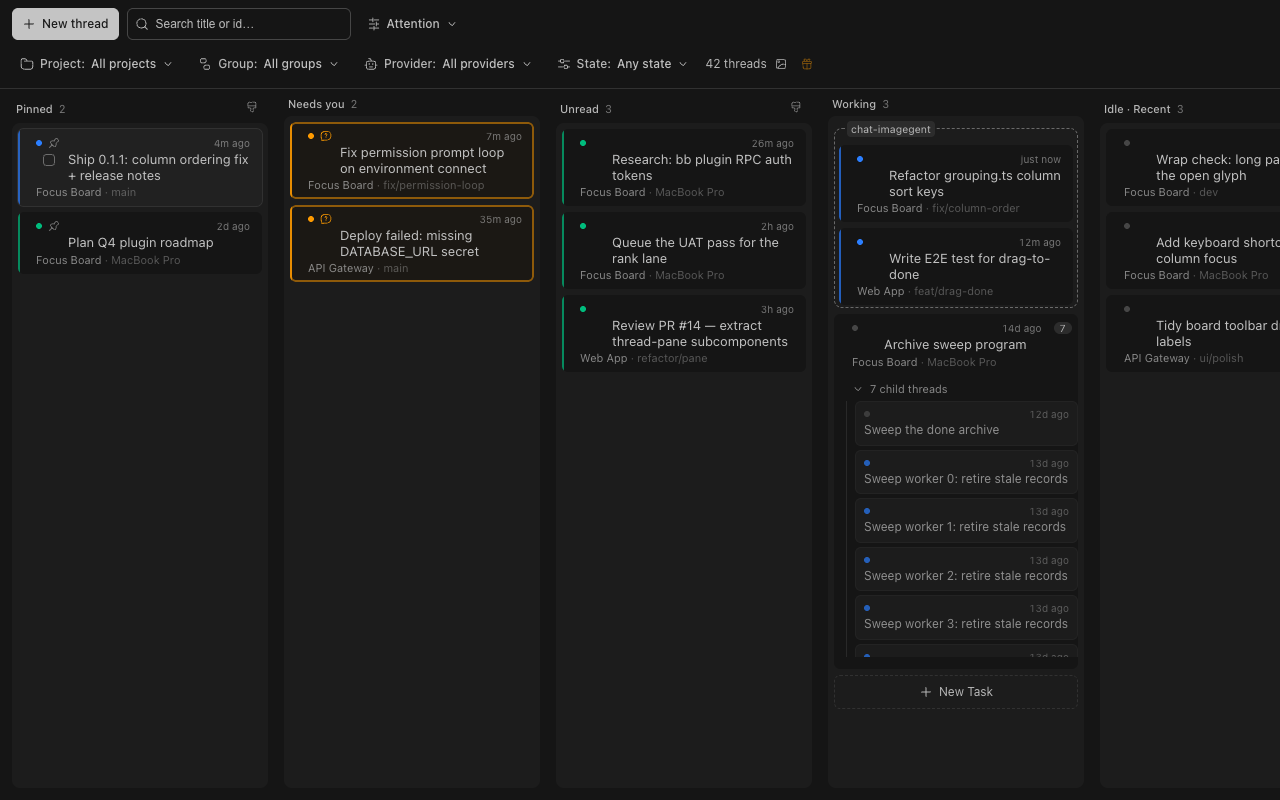
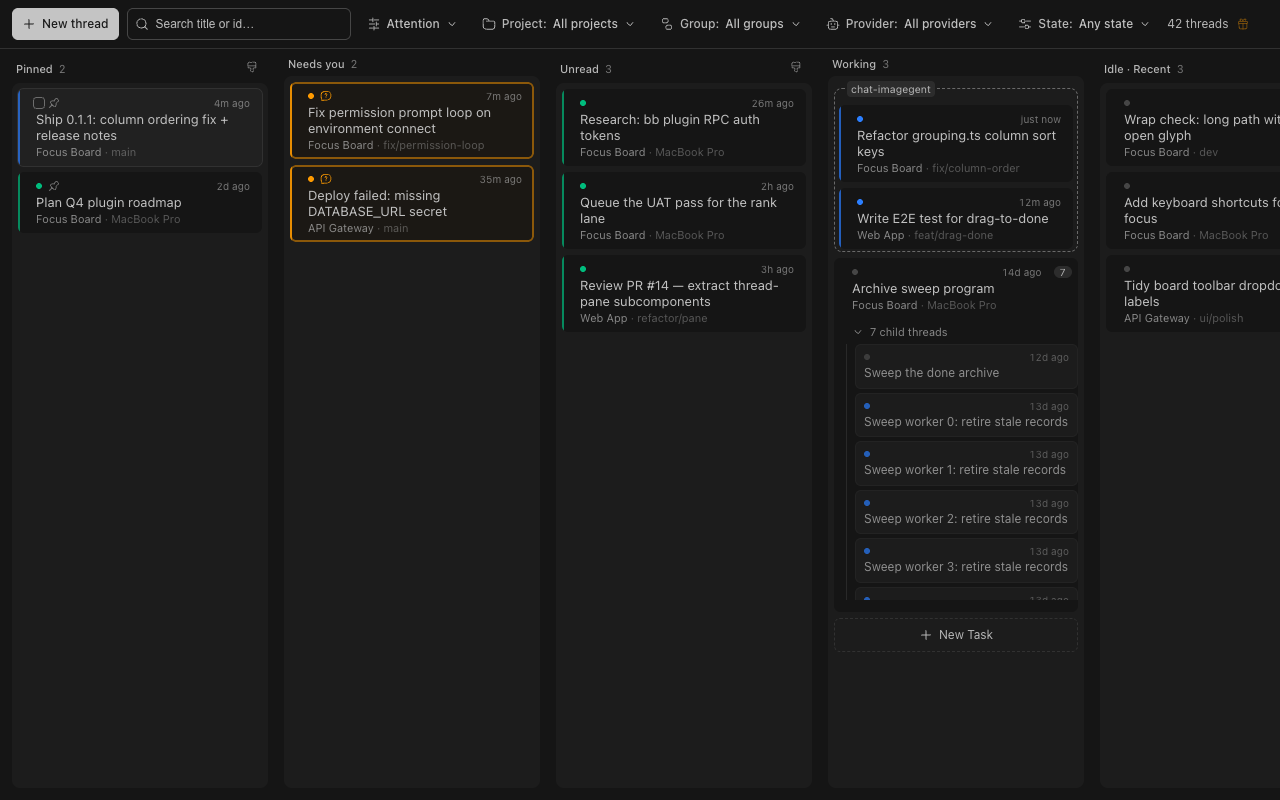
The done checkbox swaps into the state dot's slot on hover

diff --git a/tests/thread-card-done-checkbox.test.tsx b/tests/thread-card-done-checkbox.test.tsx
@@ -1,12 +1,12 @@
 // @vitest-environment jsdom
-// The title-row Mark Done checkbox: a checkbox sits LEFT OF THE THREAD TITLE
-// in a reserved gutter (the title never reflows on hover — only arming
-// pushes, adding the inline label so the title wraps in the narrower
-// space). The first click ARMS, the second click fires the write. Done
-// cards mirror it: a CHECKED box that arms "Mark Not Done". This file pins
-// the behavior the operator actually sees: placement (title row, not the
-// corner), arm, confirm, disarm-on-leave, the done mirror, and the gates
-// (unwired surfaces and sweep-selecting mode render nothing).
+// The status-dot swap: on hover, the card's state dot yields its exact
+// slot to the done checkbox — empty on not-done cards, checked on done —
+// so the reveal moves NOTHING on the card. The first click ARMS (the
+// label joins the header row inline), the second click fires the write,
+// and hovering away disarms. This file pins the behavior the operator
+// actually sees: the dot-to-checkbox swap, arm, confirm, disarm, the done
+// mirror, and the gates (unwired surfaces and sweep-selecting keep the
+// plain dot).
 import { afterEach, describe, expect, it, vi } from "vitest";
 import { cleanup, fireEvent, render } from "@testing-library/react";
 import { ThreadCard } from "../components/thread-card";
@@ -22,7 +22,7 @@ function card(props: {
   return render(
     <ThreadCard
       thread={thread({ id: "thr_check", displayTitle: "Wired thread", updatedAt: 1 })}
-      stateDot={null}
+      stateDot={<span data-state-dot="" />}
       isActive={false}
       isDone={props.isDone ?? false}
       projectName="Proj"
@@ -40,35 +40,49 @@ function checkbox(): HTMLElement {
   return node;
 }
 
-describe("the title-row Mark Done checkbox", () => {
-  it("sits in the title row, left of the title, reserving the gutter", () => {
+describe("the status-dot done checkbox", () => {
+  it("occupies the state dot's slot: the dot is wrapped to yield on hover", () => {
     card({ onMarkDone: () => {} });
     const node = checkbox();
-    // Structural placement contract: the checkbox's flex sibling is the
-    // title paragraph, so the box reads left of the title and the armed
-    // label grows in-flow (pushing the title right), never floating over
-    // the corner.
-    const row = node.parentElement;
-    if (!(row instanceof HTMLElement)) throw new Error("missing title row");
-    expect(row.className).toContain("flex");
-    const title = row.querySelector("p");
-    if (!(title instanceof HTMLElement)) throw new Error("missing title");
-    expect(title.className).toContain("flex-1");
-    expect(node.nextElementSibling).toBe(title);
-    // Idle: the empty checkbox glyph, unarmed, no label text.
+    // The checkbox is centered over the dot's fixed slot, not a sibling of
+    // the title and not a corner overlay.
+    const slot = node.parentElement;
+    if (!(slot instanceof HTMLElement)) throw new Error("missing dot slot");
+    expect(slot.className).toContain("relative");
+    const dotWrap = slot.querySelector("[data-state-dot]")?.parentElement;
+    if (!(dotWrap instanceof HTMLElement)) throw new Error("missing dot wrapper");
+    // The dot fades out on hover (the swap).
+    expect(dotWrap.className).toContain("group-hover:opacity-0");
+    // Idle: the empty checkbox glyph, unarmed, no label in the header row.
     expect(node.hasAttribute("data-done-armed")).toBe(false);
     expect(node.querySelector("[data-icon]")?.getAttribute("data-icon")).toBe("Checkbox");
-    expect(node.textContent).not.toContain("Mark Done");
+    expect(document.querySelector("[data-done-armed-tag]")).toBeNull();
   });
 
-  it("arms on the first click without firing the write, label pushing the title", () => {
+  it("keeps the plain dot when the surface is unwired or sweep-selecting", () => {
+    card({});
+    expect(document.querySelector("[data-done-checkbox]")).toBeNull();
+    const dot = document.querySelector('[data-thread-card="thr_check"] [data-state-dot]');
+    if (!(dot instanceof HTMLElement)) throw new Error("missing state dot");
+    // The dot renders bare (no yielding wrapper) when there is no checkbox.
+    expect(dot.parentElement?.className).not.toContain("group-hover:opacity-0");
+    card({ onMarkDone: () => {}, isSweepSelecting: true });
+    expect(document.querySelector("[data-done-checkbox]")).toBeNull();
+  });
+
+  it("arms on the first click: the label joins the header row, no write", () => {
     const onMarkDone = vi.fn();
     card({ onMarkDone });
     const node = checkbox();
     fireEvent.click(node);
     expect(node.hasAttribute("data-done-armed")).toBe(true);
-    expect(node.textContent).toContain("Mark Done");
     expect(node.querySelector("[data-icon]")?.getAttribute("data-icon")).toBe("CheckboxChecked");
+    // The armed label is a header-row sibling AFTER the dot slot (inline,
+    // not inside the button, not over the title).
+    const tag = document.querySelector('[data-thread-card="thr_check"] [data-done-armed-tag]');
+    if (!(tag instanceof HTMLElement)) throw new Error("missing armed tag");
+    expect(tag.textContent).toBe("Mark Done");
+    expect(node.parentElement?.nextElementSibling).toBe(tag);
     expect(onMarkDone).not.toHaveBeenCalled();
   });
 
@@ -80,6 +94,7 @@ describe("the title-row Mark Done checkbox", () => {
     fireEvent.click(node);
     expect(onMarkDone).toHaveBeenCalledTimes(1);
     expect(node.hasAttribute("data-done-armed")).toBe(false);
+    expect(document.querySelector("[data-done-armed-tag]")).toBeNull();
   });
 
   it("disarms when the pointer leaves the card, without firing the write", () => {
@@ -101,25 +116,16 @@ describe("the title-row Mark Done checkbox", () => {
     const node = checkbox();
     // Idle done card: the CHECKED glyph, no label.
     expect(node.querySelector("[data-icon]")?.getAttribute("data-icon")).toBe("CheckboxChecked");
-    expect(node.textContent).not.toContain("Mark Not Done");
-    // Armed: the "Mark Not Done" label joins in-flow.
+    expect(document.querySelector("[data-done-armed-tag]")).toBeNull();
+    // Armed: the "Mark Not Done" label joins the header row.
     fireEvent.click(node);
-    expect(node.hasAttribute("data-done-armed")).toBe(true);
-    expect(node.textContent).toContain("Mark Not Done");
+    const tag = document.querySelector('[data-thread-card="thr_check"] [data-done-armed-tag]');
+    if (!(tag instanceof HTMLElement)) throw new Error("missing armed tag");
+    expect(tag.textContent).toBe("Mark Not Done");
     expect(onMarkDone).not.toHaveBeenCalled();
-    // Confirm: the write fires (the handler flips done off its own state).
+    // Confirm: the write fires once (the handler flips done off its own state).
     fireEvent.click(node);
     expect(onMarkDone).toHaveBeenCalledTimes(1);
     expect(node.hasAttribute("data-done-armed")).toBe(false);
-  });
-
-  it("does not render when the surface gives no handler", () => {
-    card({});
-    expect(document.querySelector("[data-done-checkbox]")).toBeNull();
-  });
-
-  it("does not render in sweep-selecting mode (the click there curates the sweep)", () => {
-    card({ onMarkDone: () => {}, isSweepSelecting: true });
-    expect(document.querySelector("[data-done-checkbox]")).toBeNull();
   });
 });

diff --git a/components/thread-card.tsx b/components/thread-card.tsx
@@ -616,61 +616,65 @@ export function ThreadCard({
   const fades = isDone || dimmed || snoozed;
   const dimsByScrim = wallpaperActive && fades && !isSweepHighlighted;
 
-  // The two-click Mark Done checkbox, sitting LEFT OF THE THREAD TITLE in a
-  // reserved gutter (the title never reflows on hover — only ARMING pushes,
-  // adding the inline label so the title wraps in the narrower space).
-  // Done cards mirror it: a checked box that arms "Mark Not Done". The
-  // first click arms, the second fires `onMarkDone`; hovering away disarms,
-  // so an armed card never survives a stray pointer into a later
-  // accidental settle. Sweeps are modal: while this card's column curates
-  // a sweep the checkbox cedes every click to the selection gesture.
+  // The two-click Mark Done checkbox, swapped INTO THE STATE DOT'S SLOT: on
+  // hover the dot fades and the checkbox centers over its exact pixels —
+  // empty on not-done cards, checked on done — so the reveal moves nothing
+  // on the card. Arming joins the label ("Mark Done" / "Mark Not Done")
+  // inline in the header row, right of the slot. The first click arms, the
+  // second fires `onMarkDone`; hovering away disarms, so an armed card
+  // never survives a stray pointer into a later accidental settle. Sweeps
+  // are modal: while this card's column curates a sweep the dot stays a
+  // dot and every click stays with the selection gesture.
   const [armedDone, setArmedDone] = useState(false);
   const showDoneCheckbox = onMarkDone !== undefined && !isSweepSelecting;
   const doneLabel = isDone ? "Mark Not Done" : "Mark Done";
-  const doneCheckbox = showDoneCheckbox ? (
-    <button
-      type="button"
-      data-done-checkbox=""
-      data-done-armed={armedDone ? "" : undefined}
-      aria-label={armedDone ? doneLabel : `Arm ${doneLabel}`}
-      title={armedDone ? "Click again to confirm" : "Click to arm"}
-      onClick={(event) => {
-        // The checkbox lives inside the card's anchor — the ticket-chip
-        // precedent (interactive content in the anchor's flow). The stop
-        // keeps the anchor's own activation (open the pane, the sweep
-        // toggle, the native href) from firing under the checkbox's click.
-        event.preventDefault();
-        event.stopPropagation();
-        if (armedDone) {
-          setArmedDone(false);
-          onMarkDone();
-        } else {
-          setArmedDone(true);
-        }
-      }}
-      className={cn(
-        "mt-px flex shrink-0 items-center gap-1 rounded-sm focus:outline-none focus-visible:ring-2 focus-visible:ring-ring",
-        armedDone
-          ? "text-amber-600"
-          : "text-muted-foreground/50 opacity-0 group-hover:opacity-100 focus-visible:opacity-100",
-      )}
-    >
-      <Icon
-        name={armedDone || isDone ? "CheckboxChecked" : "Checkbox"}
-        className="size-3.5 shrink-0"
-        aria-hidden
-      />
-      {armedDone ? (
-        <span
-          data-done-armed-tag=""
+  const doneDotSlot = showDoneCheckbox ? (
+    <span className="relative flex size-1.5 shrink-0 items-center justify-center">
+      <span
+        className={cn(
+          "flex items-center transition-opacity",
+          armedDone
+            ? "opacity-0"
+            : "opacity-100 group-hover:opacity-0 group-focus-within:opacity-0",
+        )}
+      >
+        {stateDot}
+      </span>
+      <button
+        type="button"
+        data-done-checkbox=""
+        data-done-armed={armedDone ? "" : undefined}
+        aria-label={armedDone ? doneLabel : `Arm ${doneLabel}`}
+        title={armedDone ? "Click again to confirm" : "Click to arm"}
+        onClick={(event) => {
+          // The checkbox lives inside the card's anchor — the ticket-chip
+          // precedent (interactive content in the anchor's flow). The stop
+          // keeps the anchor's own activation (open the pane, the sweep
+          // toggle, the native href) from firing under the checkbox's click.
+          event.preventDefault();
+          event.stopPropagation();
+          if (armedDone) {
+            setArmedDone(false);
+            onMarkDone();
+          } else {
+            setArmedDone(true);
+          }
+        }}
+        className={cn(
+          "absolute left-1/2 top-1/2 flex -translate-x-1/2 -translate-y-1/2 items-center rounded-sm p-0.5 focus:outline-none focus-visible:ring-2 focus-visible:ring-ring",
+          armedDone
+            ? "text-amber-600 opacity-100"
+            : "text-muted-foreground/50 opacity-0 group-hover:opacity-100 group-focus-within:opacity-100",
+        )}
+      >
+        <Icon
+          name={armedDone || isDone ? "CheckboxChecked" : "Checkbox"}
+          className="size-3.5 shrink-0"
           aria-hidden
-          className="whitespace-nowrap text-[10px] font-medium leading-none"
-        >
-          {doneLabel}
-        </span>
-      ) : null}
-    </button>
-  ) : null;
+        />
+      </button>
+    </span>
+  ) : stateDot;
 
   // The card is a container; the anchor (title/body) and the collapse toggle
   // are siblings inside it — a button inside an anchor would be invalid HTML.
@@ -795,7 +799,16 @@ export function ThreadCard({
           )}
         >
           <div className="flex items-center gap-1.5 pl-1.5">
-            {stateDot}
+            {doneDotSlot}
+            {showDoneCheckbox && armedDone ? (
+              <span
+                data-done-armed-tag=""
+                aria-hidden
+                className="whitespace-nowrap text-[10px] font-medium leading-none text-amber-600"
+              >
+                {doneLabel}
+              </span>
+            ) : null}
             {thread.isPinned ? (
               <Icon name="Pin" className="size-3 text-muted-foreground/70" aria-hidden />
             ) : null}
@@ -838,14 +851,7 @@ export function ThreadCard({
               {relativeTime(thread.updatedAt, now)}
             </span>
           </div>
-          {doneCheckbox === null ? (
-            <p data-title="" className={cn("mt-0.5 line-clamp-2 pl-1.5 leading-snug", compact ? "text-[11px]" : "text-[13px]")}>{thread.displayTitle}</p>
-          ) : (
-            <div className="mt-0.5 flex items-start gap-1.5 pl-1.5">
-              {doneCheckbox}
-              <p data-title="" className={cn("min-w-0 flex-1 line-clamp-2 leading-snug", compact ? "text-[11px]" : "text-[13px]")}>{thread.displayTitle}</p>
-            </div>
-          )}
+          <p data-title="" className={cn("mt-0.5 line-clamp-2 pl-1.5 leading-snug", compact ? "text-[11px]" : "text-[13px]")}>{thread.displayTitle}</p>
           <p className="mt-0.5 truncate pl-1.5 text-[11px] text-muted-foreground/70">
             {projectName}
             {branch === "" ? null : <span className="text-muted-foreground/40"> · {branch}</span>}

diff --git a/lib/unreleased-changelog.generated.ts b/lib/unreleased-changelog.generated.ts
@@ -19,7 +19,7 @@ export const UNRELEASED_ITEMS: readonly { text: string; children: string[]; grou
     ]
   },
   {
-    "text": "**A title checkbox settles threads.** Hovering a card shows a checkbox left of its title, empty on not-done cards and checked on done; the first click arms it (\"Mark Done\" or \"Mark Not Done\" inline, pushing the title to wrap) and the second click writes, with hovering away disarming so a stray pointer settles nothing.",
+    "text": "**A status-dot checkbox settles threads.** Hovering a card swaps its state dot for a checkbox, empty on not-done cards and checked on done; the first click arms it (\"Mark Done\" or \"Mark Not Done\" joins the header row) and the second click writes, with hovering away disarming so a stray pointer settles nothing.",
     "children": []
   },
   {

diff --git a/docs/test-coverage-matrix.md b/docs/test-coverage-matrix.md
@@ -125,7 +125,7 @@ happy-path coverage suffices except where a cell is filled anyway.
 | Standing security gates (`npm run gates`, 1.0 hardening) | low | auto (`scripts/security-gates.mjs` — npm audit prod+dev trees at 0, dangerous-sink greps over shipped code with the audits' documented allowlists, window.open noopener across multi-line statements) | auto (a new sink or vulnerability fails the cut with file:line) | skip | skip |
 | Ticket-ref detection (`findTicketRefs`: `#N` with a hostname on non-GitHub bases, GitHub URLs; WORD-123 keys never match — no project can validate a bare key) + forgejo item URLs (`forgejoItemBase`) | low | auto (`tests/tickets.test.ts`) | auto (`#0`, non-GitHub URLs rejected; lowercase/mid-word keys stay inert; forgejo regexes refuse github.com remotes and shapeless URLs, git@ github excluded) | auto (dates/versions/bare-fragment guards still hold; dedup across title+branch; forgejo base builds `…/issues/N` href + hostname; github base emits no hostname) | skip (pure ordering) |
 | Ticket-chip icons (issue vs PR glyph + provider mark, `components/thread-card.tsx`) | low | auto (`tests/thread-card-ticket-chips.test.tsx` — GitHub brand mark on `#N` refs, generic ticket mark on keys (unreachable from text scan since word keys stopped chipping; kept for non-text chip sources), issue glyph by default and from `/issues/` URLs, PR glyph from `/pull/` URLs) | auto (no PR glyph swap without a `/pull/` URL or status; keys never render the GitHub mark) | auto (live status colors: open emerald, merged purple with the merge glyph, closed muted with the closed-PR glyph; `aria-label` carries kind + state; `tests/tickets.test.ts` pins `kind` on URL refs and kindless `#N`) | skip (chip is covered in the screenshot harness; two-glyph layout verified) |
-| Title-row Mark Done checkbox (two-click arm, `components/thread-card.tsx` title row + the board's `onMarkDone` wire reusing the "done" menu action's run, both directions) | low (a board-local done write through the menu's own handler) | auto (`tests/thread-card-done-checkbox.test.tsx` — the checkbox is the title paragraph's flex sibling (left of the title, gutter reserved, hover never reflows); first click arms (`data-done-armed`, inline "Mark Done" label, `CheckboxChecked` glyph) without firing the handler; second click fires it once and disarms) | auto (an unwired surface and sweep-selecting mode each render no checkbox — the sweep curates, the checkbox never steals a click) | auto (a done card mirrors: idle CHECKED glyph, armed "Mark Not Done" label, confirm fires once — the same action run flipped by the thread's own done state; pointer leave disarms without a write, so an armed card never survives a stray pointer; evidence shots `docs/screenshots/repro-done-checkbox/` from `scripts/screenshot/repro-done-checkbox.mjs` — hover opacity 1 + box left of title, armed push measured (title width 182px → 125px), card lands in Done, done-armed tag reads) | manual (live bb: hover, arm, confirm both directions on real threads; the armed label's wrap reads at narrow card widths) |
+| Status-dot done checkbox (two-click arm swapped into the state dot's slot, `components/thread-card.tsx` + the board's `onMarkDone` wire reusing the "done" menu action's run, both directions) | low (a board-local done write through the menu's own handler) | auto (`tests/thread-card-done-checkbox.test.tsx` — the checkbox centers over the dot's fixed slot and the dot's wrapper carries `group-hover:opacity-0` (the swap moves nothing; measured: title width identical idle/hover/armed); first click arms (`data-done-armed`, "Mark Done" label as a header-row sibling after the slot, `CheckboxChecked` glyph) without firing the handler; second click fires it once and disarms) | auto (an unwired surface renders the bare dot with no yielding wrapper, and sweep-selecting keeps the dot — the sweep curates, the checkbox never steals a click) | auto (a done card mirrors: idle CHECKED glyph, armed "Mark Not Done" label, confirm fires once — the same action run flipped by the thread's own done state; pointer leave disarms without a write, so an armed card never survives a stray pointer; evidence shots `docs/screenshots/repro-done-checkbox/` from `scripts/screenshot/repro-done-checkbox.mjs` — hover opacity 1 + box at the dot slot, armed tag, card lands in Done, done-armed tag reads) | manual (live bb: hover, arm, confirm both directions on real threads; the swap reads on attention-pulse and snoozed cards too) |
 | Ticket-chip link-out (repo base from `gitRemoteUrl`, href or inert chip) | low | auto (`tests/tickets.test.ts` href resolution) | auto (no base → no href) | auto (pull URL keeps its own href) | skip |
 | Thread→GitHub links (`linkedIssues` metadata, `link_set`/`link_clear`/`link_list` RPCs, `link` CLI, `focus_board_link_issue` tool) | low (board-local plugin metadata) | auto (`tests/link-metadata.test.ts` helpers + chip merge, `tests/link-rpc.test.ts` RPC/CLI write paths, `tests/link-agent-tool.test.ts` tool registration + repo resolution from `gitRemoteUrl`) | auto (missing remote → tool isError telling the agent to pass the URL, CLI PluginCliError with that hint; absent/clear → unlinked, no tombstones) | auto (empty array → key removed; re-link upserts by repo+number moving it primary; GitHub `/issues/N ↔ /pull/N` redirect makes kind non-identity) | auto (malformed stored record → every reader throws, chips row keeps rendering from text refs only because the read only runs on live-thread list walks; cross-repo same number dedupes to the primary chip; no deleted-thread index — no sweep consumes links) |
 | External tracker links (`ExternalItemLink` store variant: URL-identity records, any-https forms in `link_set`/`link set`/`focus_board_link_issue` with optional `label`) | low (board-local plugin metadata) | auto (`tests/link-metadata.test.ts` external parse/merge + `makeExternalLink`, `tests/link-rpc.test.ts` external + URL forms, `tests/link-agent-tool.test.ts` external URL forms) | auto (non-https, unparseable URL, empty/81-char label all throw; `http://` and url+number mixes rejected at the RPC/tool boundary; missing remote still tells the agent to pass the URL) | auto (legacy records without a `tracker` field parse as GitHub; hostname derived from the URL never trusted from storage; external links excluded from the status-dot batch (`linkedRefKeys`); clearing a GitHub number keeps externals; upsert by exact URL) | auto (stored-impostor hostname ignored; label-less chips fall back to hostname) |

diff --git a/CHANGELOG.md b/CHANGELOG.md
@@ -12,7 +12,7 @@ The format follows [Keep a Changelog](https://keepachangelog.com/en/1.1.0/).
 - **The lane move gains a zoom transport.** A board playing the zoom sends a moved card shrinking into its old lane's slot while that slot's space closes with it, then the card grows from small to full in its new lane as the slot's space opens on the same clock, so the space and the card land together. The transporter dissolve stays the default.
 - **The board's settings live in one gear.** A modal with Behavior, What's new, and About panels replaces the standalone What's-new alert; the toolbar icon is a pulsing gift while there is unseen changelog — its click lands straight on the news — and a settings gear otherwise.
   - **Appearance joins the tabs.** Card animations pick the transporter read (None snaps into place, Teleport dissolves, Zoom out / in waits visibly), motion can force quieter or fuller animation than the OS setting, and the wallpaper picker lives here; the rail marks the read tab with an accent bar, and What's-new lines fresh on dev tint amber.
-- **A title checkbox settles threads.** Hovering a card shows a checkbox left of its title, empty on not-done cards and checked on done; the first click arms it ("Mark Done" or "Mark Not Done" inline, pushing the title to wrap) and the second click writes, with hovering away disarming so a stray pointer settles nothing.
+- **A status-dot checkbox settles threads.** Hovering a card swaps its state dot for a checkbox, empty on not-done cards and checked on done; the first click arms it ("Mark Done" or "Mark Not Done" joins the header row) and the second click writes, with hovering away disarming so a stray pointer settles nothing.
 
 #### Settings
 
